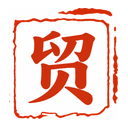
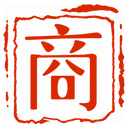
Синк зеркала 2026-09-15 09:06

diff --git a/tingli/index.html b/tingli/index.html
@@ -361,15 +361,15 @@
   <button class="tab" id="tab-mine" onclick="goTab('mine')" title="语法"><span class="ic"><img class="ic-img ic-img-on" src="tab-fa.png" alt=""><img class="ic-img ic-img-off" src="tab-fa-off.png" alt=""></span><span class="tab-label">语法<span class="tab-ru">Ли лаоши</span></span></button>
   <button class="tab" id="tab-idv" onclick="goTab('idv')" title="口语"><span class="ic"><img class="ic-img ic-img-on" src="tab-yu.png" alt=""><img class="ic-img ic-img-off" src="tab-yu-off.png" alt=""></span><span class="tab-label">口语<span class="tab-ru">с Любой</span></span></button>
   <button class="tab" id="tab-team" onclick="goTab('team')" title="团队"><span class="ic"><img class="ic-img ic-img-on" src="tab-tuan.png?v=1900" alt=""><img class="ic-img ic-img-off" src="tab-tuan-off.png?v=1900" alt=""></span><span class="tab-label">团队<span class="tab-ru">группа</span></span></button>
-  <button class="tab" id="tab-biz" onclick="goTab('biz')" title="商务"><span class="ic"><img class="ic-img ic-img-on" src="tab-biz.png?v=1922" alt=""><img class="ic-img ic-img-off" src="tab-biz-off.png?v=1922" alt=""></span><span class="tab-label">商务<span class="tab-ru">Самоучеба</span></span></button>
+  <button class="tab" id="tab-biz" onclick="goTab('biz')" title="商务"><span class="ic"><img class="ic-img ic-img-on" src="tab-biz.png?v=2.21.1" alt=""><img class="ic-img ic-img-off" src="tab-biz-off.png?v=2.21.1" alt=""></span><span class="tab-label">商务<span class="tab-ru">Самоучеба</span></span></button>
   <button class="tab" id="tab-favs" onclick="goTab('favs')" title="句子"><span class="ic"><img class="ic-img ic-img-on" src="tab-ju.png" alt=""><img class="ic-img ic-img-off" src="tab-ju-off.png" alt=""></span><span class="tab-label">句子<span class="tab-ru">Фразы</span></span></button>
   <button class="tab" id="tab-dict" onclick="goTab('dict')" title="词典"><span class="ic"><img class="ic-img ic-img-on" src="tab-ci.png" alt=""><img class="ic-img ic-img-off" src="tab-ci-off.png" alt=""></span><span class="tab-label">词典<span class="tab-ru">Словарь</span></span></button>
   <div class="sb-ver" id="sbVerLine"></div>
 </div>
-<script src="data/units.js?v=2.21.0"></script>
-<script src="data/extra.js?v=2.21.0"></script>
-<script src="data/idv.js?v=2.21.0"></script>
-<script src="data/biz.js?v=2.21.0"></script>
+<script src="data/units.js?v=2.21.1"></script>
+<script src="data/extra.js?v=2.21.1"></script>
+<script src="data/idv.js?v=2.21.1"></script>
+<script src="data/biz.js?v=2.21.1"></script>
 <script>
 const LS = 'tingli-progress-v1';
 const LS_FAV = 'tingli-favs-v1';
@@ -389,7 +389,7 @@ const favKey = (u, part, ti) => u.unit + ':' + part.id + ':' + ti;
 const isFav = (u, part, ti) => loadFavs().includes(favKey(u, part, ti));
 const favKeyPart = (u, part) => u.unit + ':' + part.id;
 const isFavPart = (u, part) => loadFavs().includes(favKeyPart(u, part));
-const APP_VER = '2.21.0';
+const APP_VER = '2.21.1';
 // Облачный API живёт только на CF-домене: с crmuro.ru (GitHub Pages) относительный /api/* отдаёт 404
 const API_BASE = 'https://abramson-crm.pages.dev';
 const EXTRA = (typeof EXTRA_UNITS !== 'undefined') ? EXTRA_UNITS : [];

diff --git a/tingli/sw.js b/tingli/sw.js
@@ -1,7 +1,7 @@
 // Service Worker «Тингли» — офлайн-режим (авиарежим / полёт)
 // Стратегия: навигация (index.html) — network-first; статика и аудио — cache-first с дозаписью;
 // /api/* (облачный бэкап) — только сеть, не кэшируется.
-// data-build: v2.21.0 (2026-09-15: сплэш «小山听力» текстом, единая палитра #C63717) + font-build: simsun-subset-STSong-1426 — маркер прекэша
+// data-build: v2.21.1 (2026-09-15: логотипы 商务 из Dropbox) + font-build: simsun-subset-STSong-1426 — маркер прекэша
 const CACHE = 'tingli-cache-v1';
 
 const ASSETS = [
